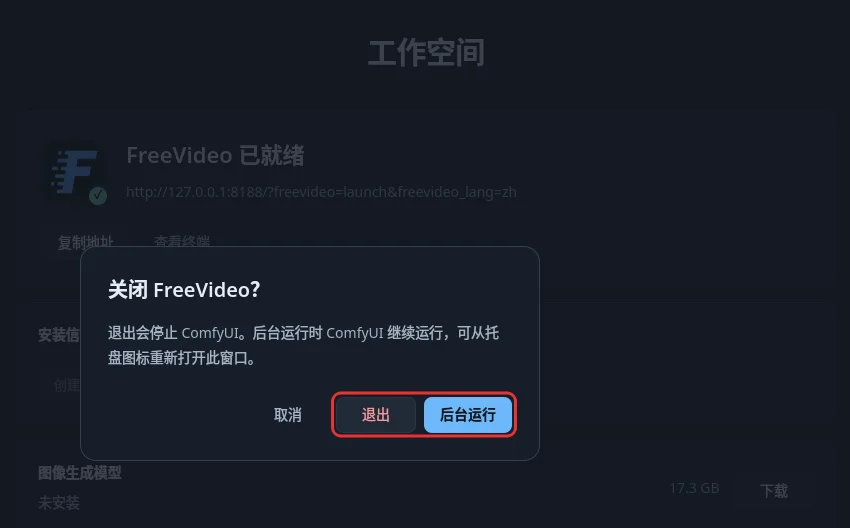
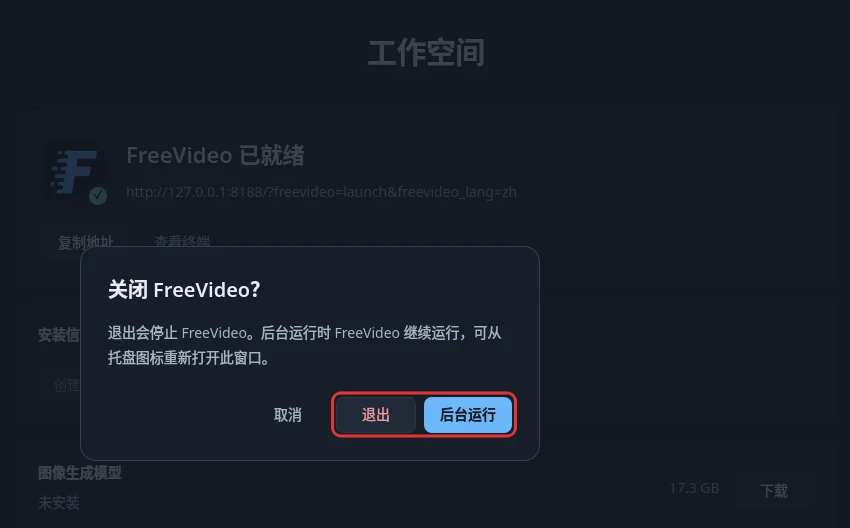
Tutorial and launcher close dialog: the closing-the-launcher chapter and the dialog use the name...
Tutorial and launcher close dialog: the closing-the-launcher chapter and the dialog use the name FreeVideo, not the host app's name; the two pictures are re-shot and the tests follow

Changed region(s): [[0.1224, 0.6061, 0.5812, 0.697]]

diff --git a/web/tutorial_book_content.js b/web/tutorial_book_content.js
@@ -781,19 +781,19 @@ export const TUTORIAL_CHAPTERS = [
     {
         id: 'launcher-close',
         title: {zh: '关闭启动器：退出或后台运行', en: 'Closing the launcher: exit or keep running'},
-        summary: {zh: '关闭启动器窗口时，可以选择停止 ComfyUI 退出，或让 ComfyUI 在后台继续运行。', en: 'When the launcher window is closed, choose to stop ComfyUI and exit, or keep ComfyUI running in the background.'},
+        summary: {zh: '关闭启动器窗口时，可以选择停止 FreeVideo 退出，或让 FreeVideo 在后台继续运行。', en: 'When the launcher window is closed, choose to stop FreeVideo and exit, or keep FreeVideo running in the background.'},
         media: {
             type: 'image',
             src: {zh: 'launcher-close-1.webp', en: 'launcher-close-2.webp'},
             alt: {zh: '启动器的“关闭 FreeVideo？”对话框：“退出”和“后台运行”按钮已用红框标出。', en: 'The launcher\'s "Close FreeVideo?" dialog, with the "Exit" and "Run in background" buttons outlined in red.'},
         },
         steps: {
-            zh: ['FreeVideo 运行时关闭启动器窗口，会出现“关闭 FreeVideo？”。', '点“后台运行”（默认按钮，按 Enter 也可以），窗口关闭，ComfyUI 和正在生成的视频继续运行。', '点“退出”，ComfyUI 停止；正在生成的视频也会停止。', '后台运行时，点托盘图标（macOS 为菜单栏图标）或在它的菜单中选“打开 FreeVideo”，重新打开窗口。', '在托盘菜单中选“退出”可以完全退出；只有视频正在生成时会再确认一次。'],
-            en: ['Close the launcher window while FreeVideo is running and "Close FreeVideo?" appears.', 'Choose "Run in background" (the default; Enter also works). The window closes, and ComfyUI and any video being generated keep running.', 'Choose "Exit" to stop ComfyUI. A video being generated stops as well.', 'While it runs in the background, click the tray icon (the menu bar icon on macOS) or choose "Open FreeVideo" in its menu to bring the window back.', 'Choose "Exit" in the tray menu to exit completely. It asks again only while a video is being generated.'],
+            zh: ['FreeVideo 运行时关闭启动器窗口，会出现“关闭 FreeVideo？”。', '点“后台运行”（默认按钮，按 Enter 也可以），窗口关闭，FreeVideo 和正在生成的视频继续运行。', '点“退出”，FreeVideo 停止；正在生成的视频也会停止。', '后台运行时，点托盘图标（macOS 为菜单栏图标）或在它的菜单中选“打开 FreeVideo”，重新打开窗口。', '在托盘菜单中选“退出”可以完全退出；只有视频正在生成时会再确认一次。'],
+            en: ['Close the launcher window while FreeVideo is running and "Close FreeVideo?" appears.', 'Choose "Run in background" (the default; Enter also works). The window closes, and FreeVideo and any video being generated keep running.', 'Choose "Exit" to stop FreeVideo. A video being generated stops as well.', 'While it runs in the background, click the tray icon (the menu bar icon on macOS) or choose "Open FreeVideo" in its menu to bring the window back.', 'Choose "Exit" in the tray menu to exit completely. It asks again only while a video is being generated.'],
         },
         limits: {
-            zh: ['只在 ComfyUI 由启动器启动时询问；由其他方式启动的 ComfyUI 不会被停止。', '启动器正在安装或下载时关闭窗口，会先询问“暂停并退出？”。', '系统没有托盘时，窗口缩到任务栏。'],
-            en: ['It asks only when the launcher started ComfyUI. A ComfyUI started another way is not stopped.', 'Closing the window while the launcher is installing or downloading first asks "Pause and close?".', 'Without a system tray, the window goes to the taskbar.'],
+            zh: ['只在 FreeVideo 由启动器启动时询问；由其他方式启动的不会被停止。', '启动器正在安装或下载时关闭窗口，会先询问“暂停并退出？”。', '系统没有托盘时，窗口缩到任务栏。'],
+            en: ['It asks only when the launcher started FreeVideo. FreeVideo started another way is not stopped.', 'Closing the window while the launcher is installing or downloading first asks "Pause and close?".', 'Without a system tray, the window goes to the taskbar.'],
         },
     },
     {

diff --git a/freevideo_engine/launcher/Main.qml b/freevideo_engine/launcher/Main.qml
@@ -1976,10 +1976,10 @@ ApplicationWindow {
         objectName: "closeChoiceDialog"; visible: closeChoice !== ""
         title: t("Close FreeVideo?", "关闭 FreeVideo？")
         text: closeChoice === "generating"
-              ? t("A video is being generated. Exit stops ComfyUI and this generation. In the background, the generation continues, and this window can be reopened from the " + (closePlace === "menubar" ? "menu bar icon." : closePlace === "taskbar" ? "taskbar." : "tray icon."),
-                  "正在生成视频。退出会停止 ComfyUI 和这次生成；后台运行时生成会继续，可从" + (closePlace === "menubar" ? "菜单栏图标" : closePlace === "taskbar" ? "任务栏" : "托盘图标") + "重新打开此窗口。")
-              : t("Exit stops ComfyUI. In the background, ComfyUI keeps running, and this window can be reopened from the " + (closePlace === "menubar" ? "menu bar icon." : closePlace === "taskbar" ? "taskbar." : "tray icon."),
-                  "退出会停止 ComfyUI。后台运行时 ComfyUI 继续运行，可从" + (closePlace === "menubar" ? "菜单栏图标" : closePlace === "taskbar" ? "任务栏" : "托盘图标") + "重新打开此窗口。")
+              ? t("A video is being generated. Exit stops FreeVideo and this generation. In the background, the generation continues, and this window can be reopened from the " + (closePlace === "menubar" ? "menu bar icon." : closePlace === "taskbar" ? "taskbar." : "tray icon."),
+                  "正在生成视频。退出会停止 FreeVideo 和这次生成；后台运行时生成会继续，可从" + (closePlace === "menubar" ? "菜单栏图标" : closePlace === "taskbar" ? "任务栏" : "托盘图标") + "重新打开此窗口。")
+              : t("Exit stops FreeVideo. In the background, FreeVideo keeps running, and this window can be reopened from the " + (closePlace === "menubar" ? "menu bar icon." : closePlace === "taskbar" ? "taskbar." : "tray icon."),
+                  "退出会停止 FreeVideo。后台运行时 FreeVideo 继续运行，可从" + (closePlace === "menubar" ? "菜单栏图标" : closePlace === "taskbar" ? "任务栏" : "托盘图标") + "重新打开此窗口。")
         acceptText: t("Run in background", "后台运行"); altText: t("Exit", "退出"); rejectText: t("Cancel", "取消"); defaultFocus: true
         onAccepted: { closeChoice = ""; backend.runInBackground() }
         onAlternative: { closeChoice = ""; backend.close() }
